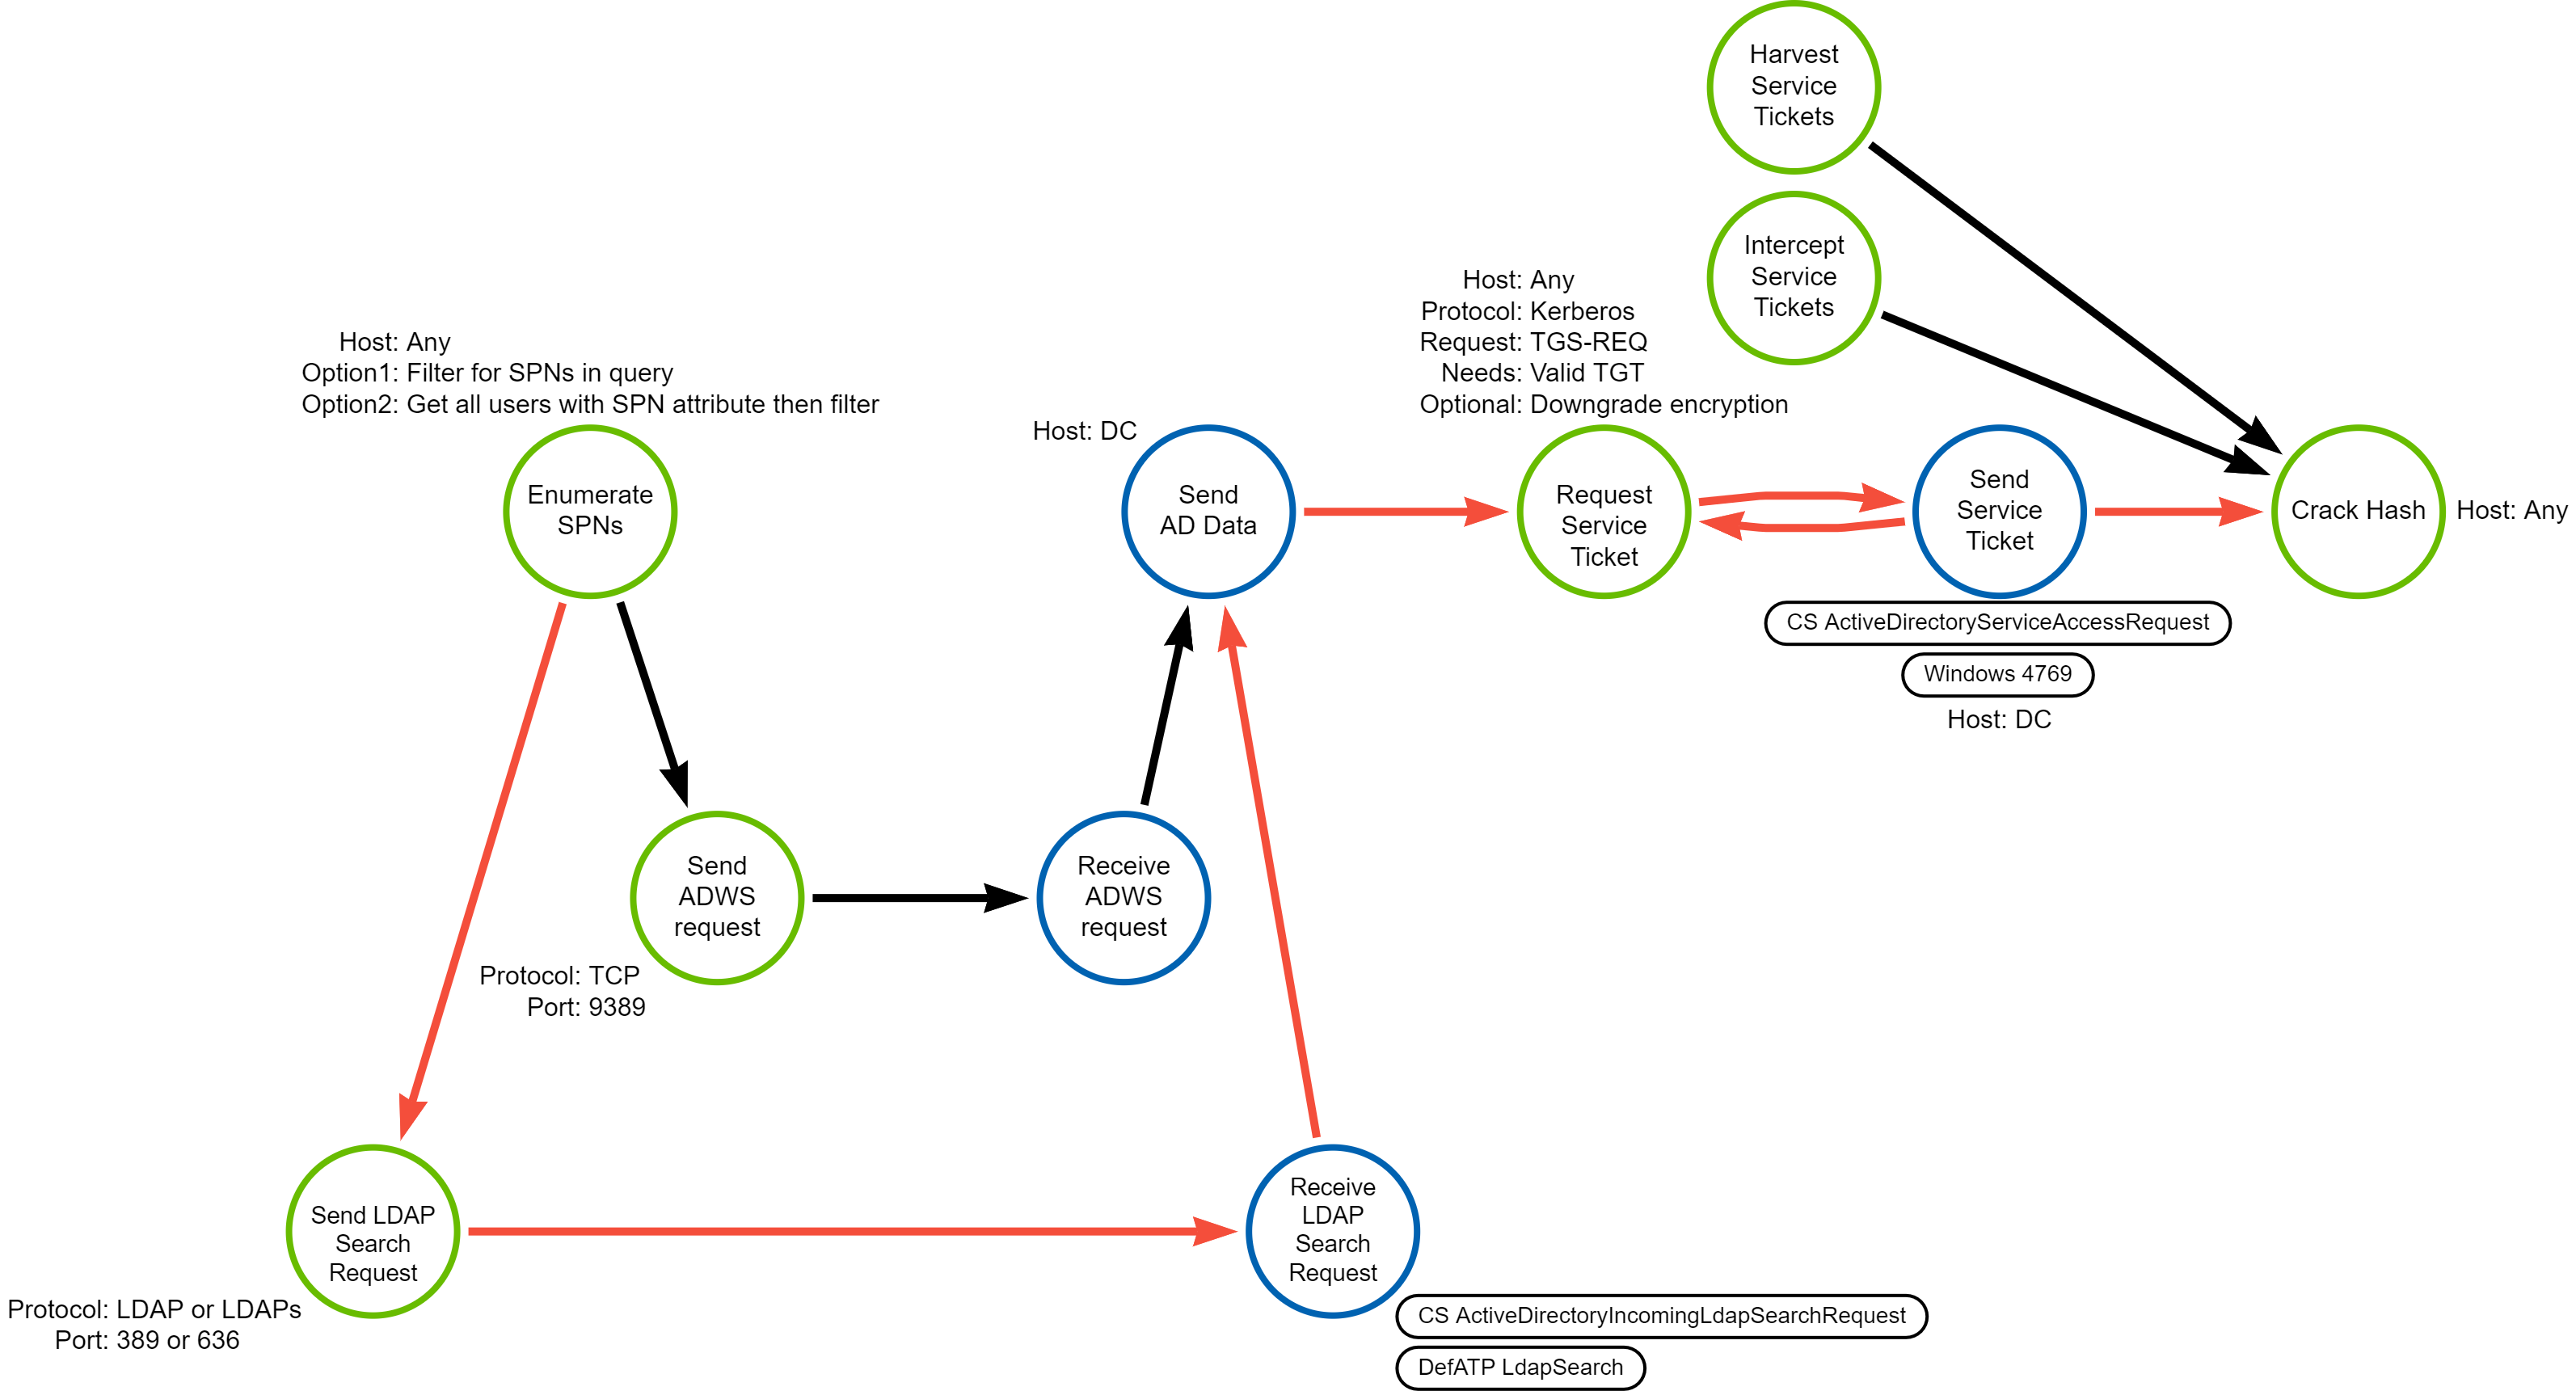
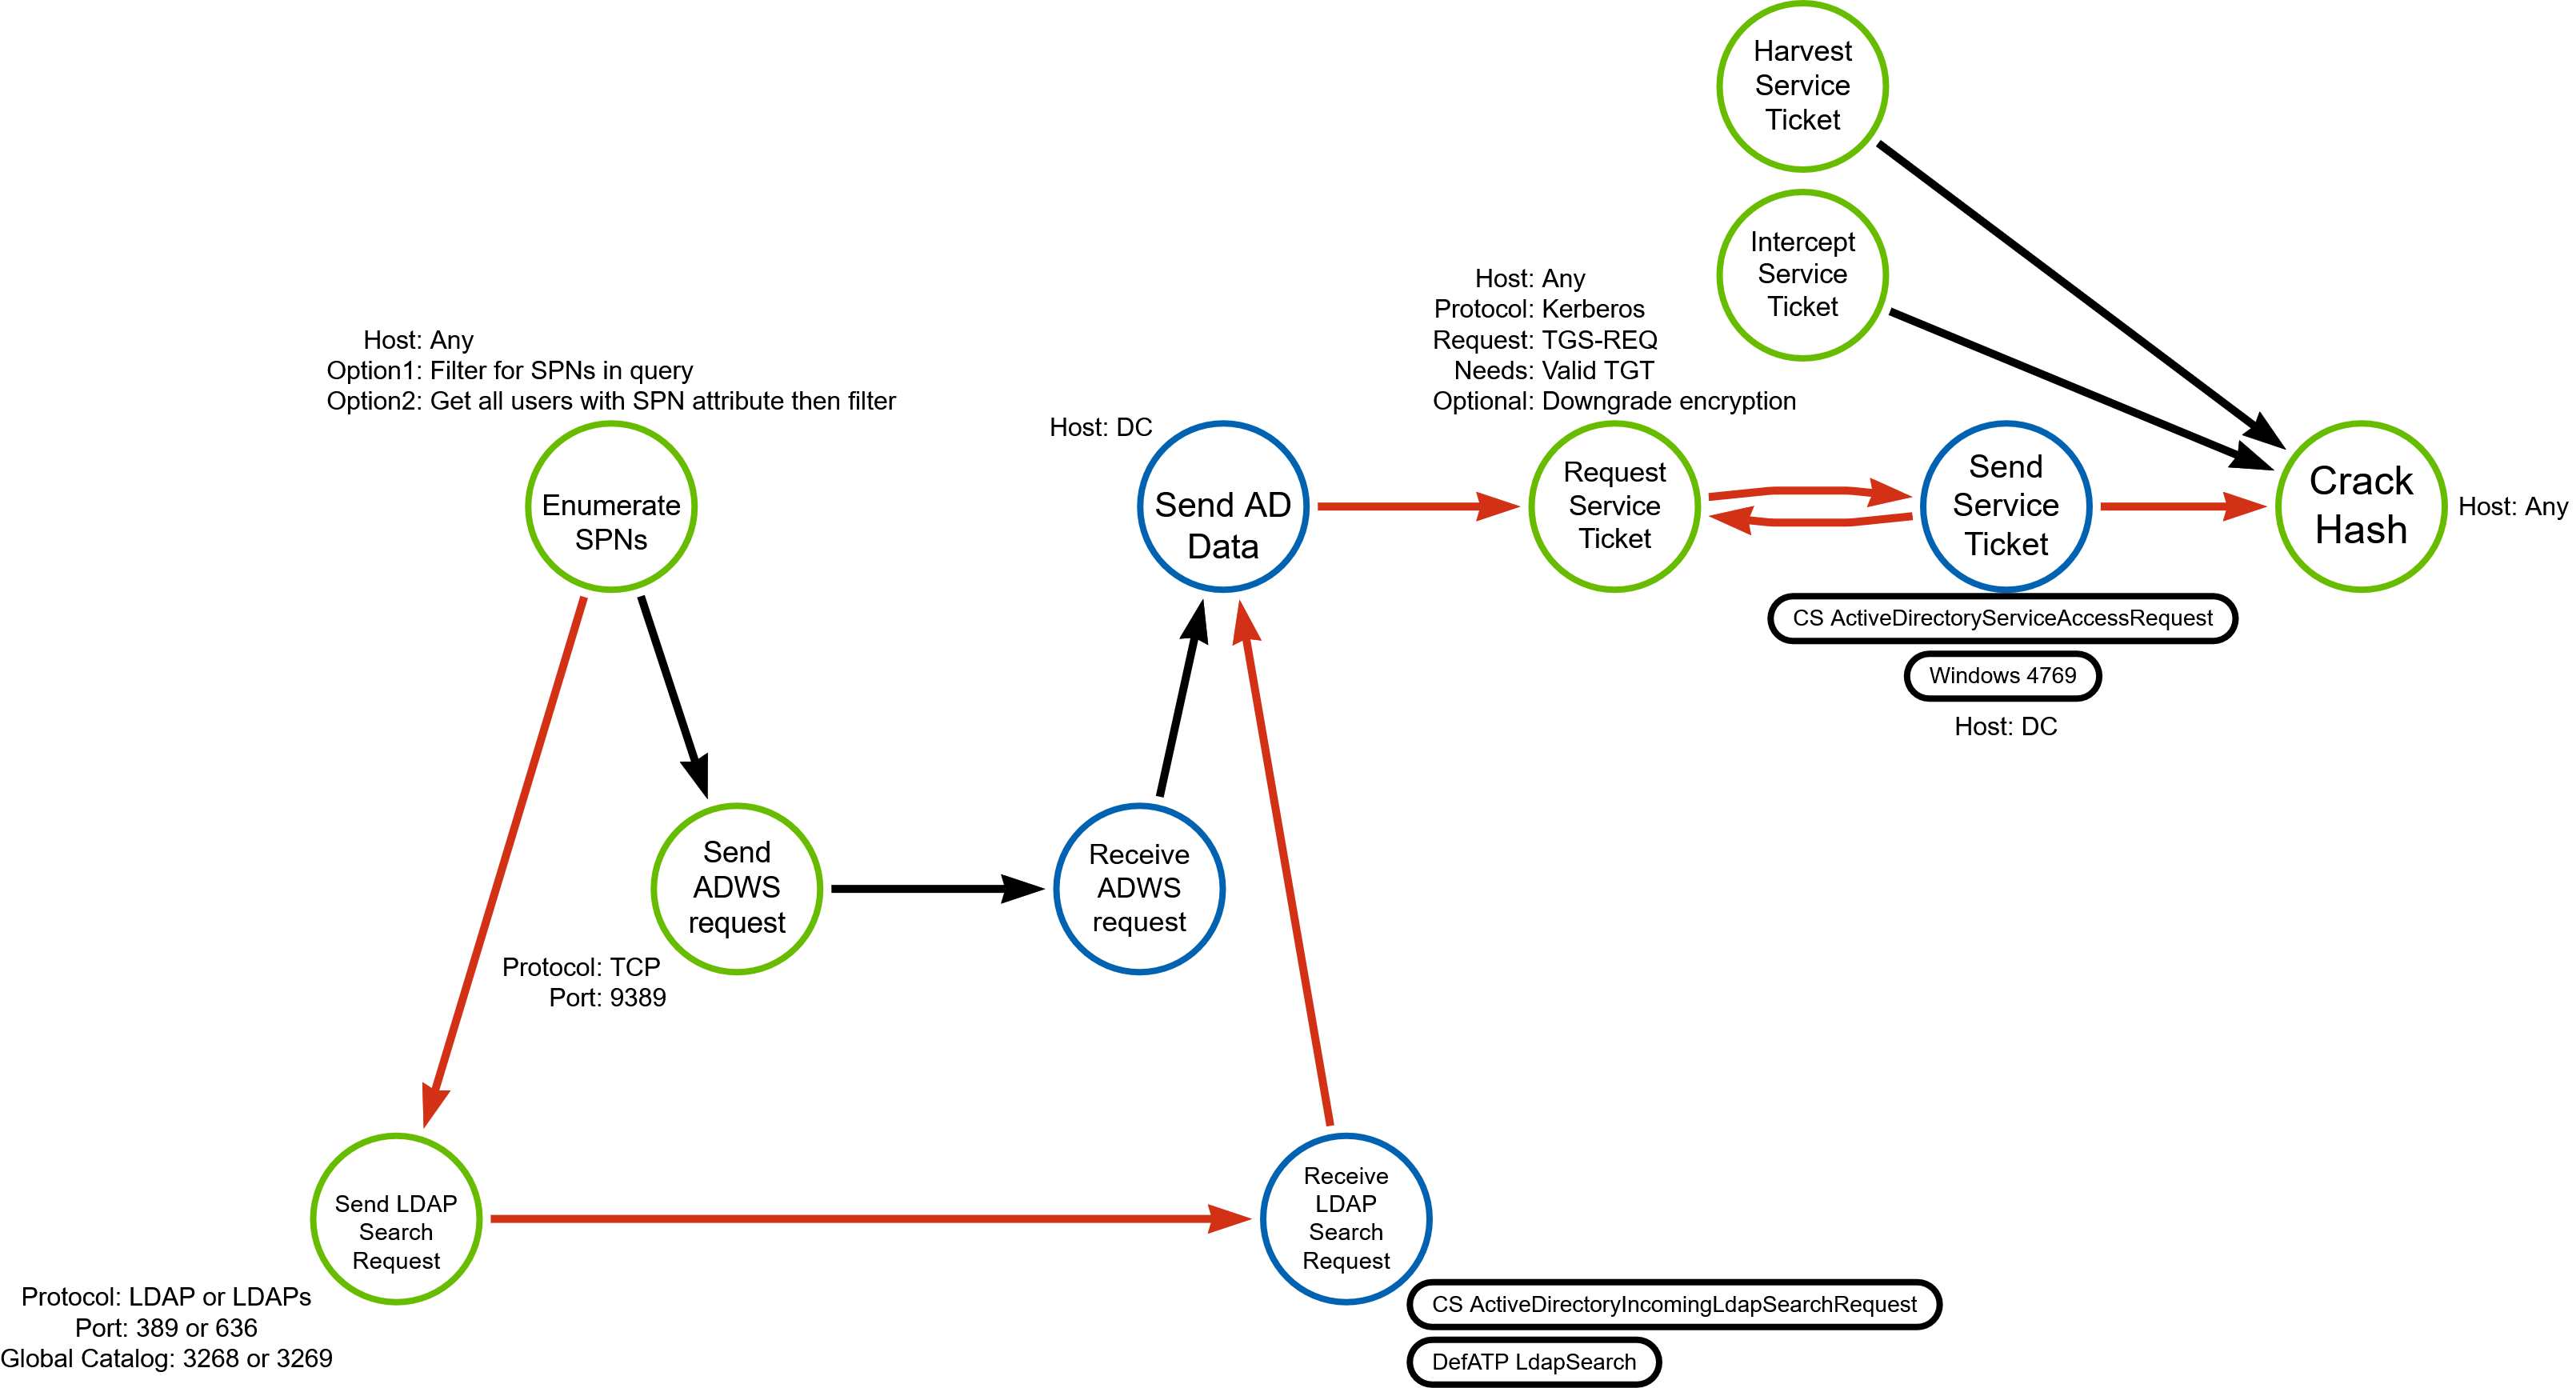
added global catalog info to trr0018

Changed region(s): [[0.0, 0.0, 0.994, 1.0]]

diff --git a/reports/trr0018/ad/README.md b/reports/trr0018/ad/README.md
@@ -228,6 +228,15 @@ query used by some of the well-known tools.
 | Impacket's GetUserSPN.py "Stealth Mode" | (&(objectCategory=person)(!(UserAccountControl:1.2.840.113556.1.4.803:=2))) |
 | Empire Powershell's "Invoke-Kerberoast" | **(servicePrincipalName=*)** |
 
+### Global Catalog
+
+In addition to the common LDAP ports 389 and 636, the Global catalog
+is also a target for SPN enumeration on ports 3268 or 3269. The Global
+Catalog is a directory index used in Microsoft Active Directory.
+Unlike the common LDAP ports, the Global Catalog allows for querying
+of the entire Forest rather than just the domain. Also, it only has a
+subset of the attributes compared to the common LDAP ports.
+
 ### Roasting Service Tickets
 
 Once the attacker has identified accounts with SPNs, they can request a service